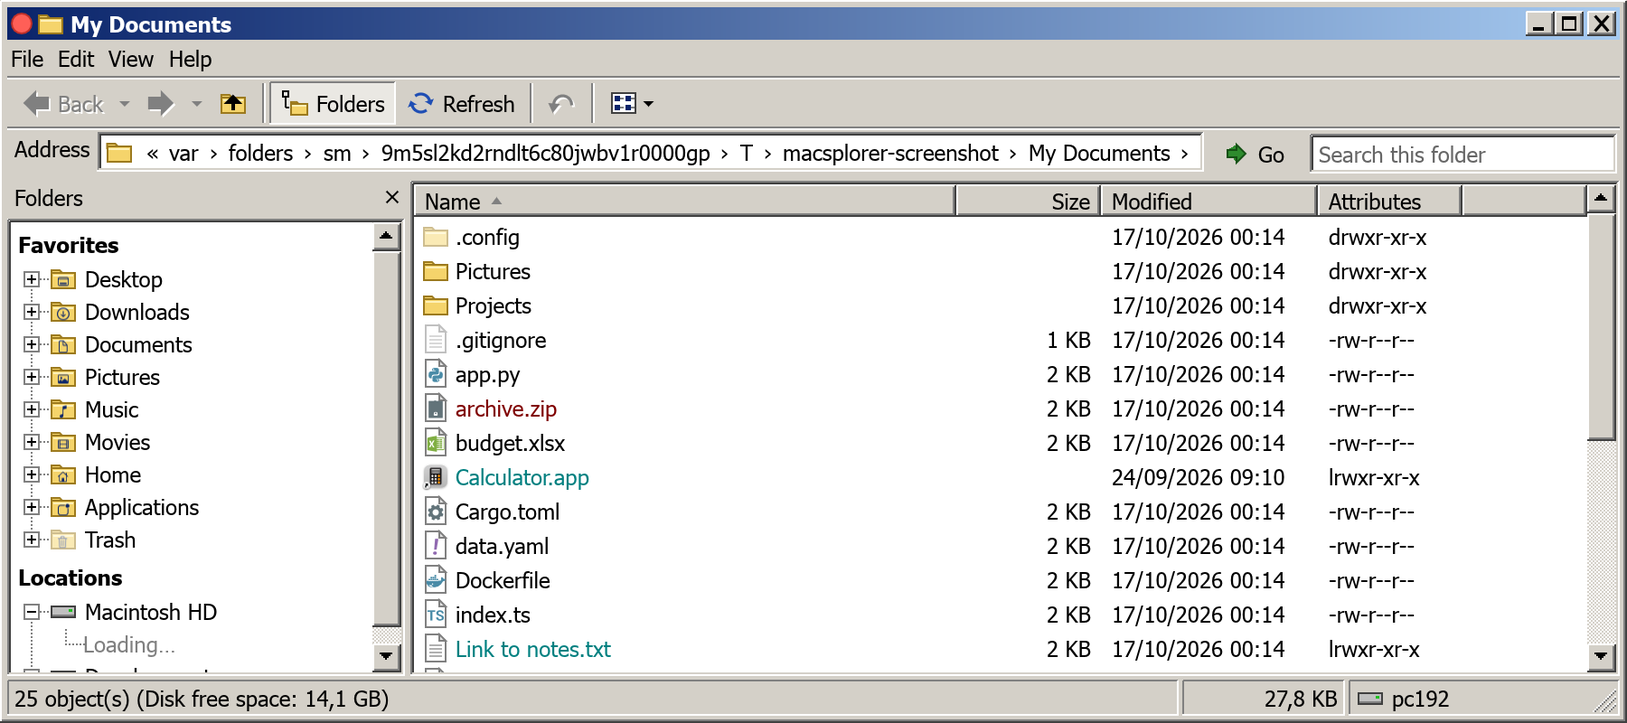
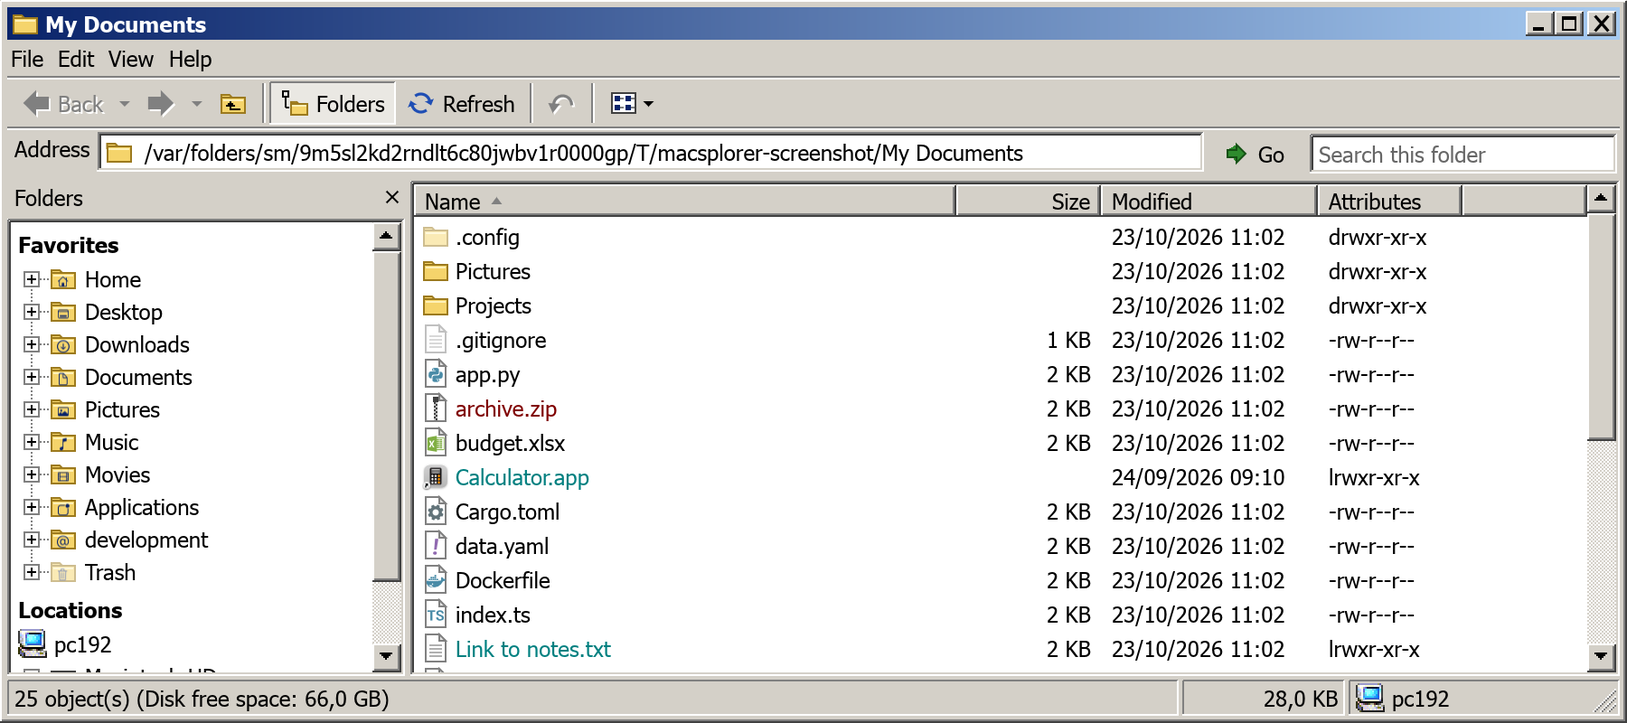
Mark zip and tar files with a zipper, and add View > Click to rename
Archives Macsplorer opens as folders now look different from the ones
that open in another app: a page with a zipper in List and Details, the
folder with a zipper in Large Icons. Inside an archive the address bar
shows the zipper folder and the archive's name in its red.

View > Click to rename turns off the click-the-selected-name rename; the
choice is kept in settings.json.

diff --git a/crates/macsplorer/src/app.rs b/crates/macsplorer/src/app.rs
@@ -163,6 +163,9 @@ struct Settings {
     /// Executables, links and archives get colored names
     /// ([`macsplorer_core::highlight`]).
     color_names: bool,
+    /// Clicking the selected item's name, then waiting, renames it
+    /// ([`slow_click`]); remembered in `settings.json`.
+    click_rename: bool,
 }
 
 struct RenameState {
@@ -537,7 +540,7 @@ impl Explorer {
             git_request: 0,
             git_applied: 0,
             sort: SortSpec::default(),
-            settings: Settings { view: ViewMode::Details, show_extensions: true, show_hidden: false, natural_sort: true, mix_folders: false, expand_to_open: true, show_folders: true, color_names: true },
+            settings: Settings { view: ViewMode::Details, show_extensions: true, show_hidden: false, natural_sort: true, mix_folders: false, expand_to_open: true, show_folders: true, color_names: true, click_rename: true },
             selection: BTreeSet::new(),
             anchor: None,
             focus_item: None,
@@ -1931,6 +1934,7 @@ impl Explorer {
         }
         self.saved_window = prefs.window;
         self.extract_show = prefs.extract_show;
+        self.settings.click_rename = prefs.click_rename;
         self.persist = true;
         // What earlier runs extracted to open, once it is a day old.
         thread::spawn(archive::clean_staging);
@@ -2011,7 +2015,11 @@ impl Explorer {
                         view_focused: self.focus == Pane::List,
                         modifiers: toggle || extend,
                     };
-                    self.slow_click.click(path, click, now_ms(&self.ctx));
+                    if self.settings.click_rename {
+                        self.slow_click.click(path, click, now_ms(&self.ctx));
+                    } else {
+                        self.slow_click.cancel();
+                    }
                     self.focus = Pane::List;
                     self.click(index, toggle, extend, visible);
                 }
@@ -2616,6 +2624,13 @@ impl Explorer {
                     self.sort.folders_first = !self.settings.mix_folders;
                     self.resort();
                 }
+                if egui_classic_menu::checkbox(ui, &mut self.settings.click_rename, "Click to rename").changed() {
+                    self.slow_click.cancel();
+                    if self.persist {
+                        let on = self.settings.click_rename;
+                        Preferences::update(|p| p.click_rename = on);
+                    }
+                }
                 if changed {
                     self.rename = None;
                     self.reload();
@@ -2866,7 +2881,9 @@ impl Explorer {
 
     fn address_contents(&mut self, ui: &mut Ui, actions: &mut Vec<Action>) {
         let (icon, _) = ui.allocate_exact_size(egui::vec2(16.0, 16.0), Sense::hover());
-        theme::paint_icon(ui.painter(), icon, Icon::Folder, true);
+        // Anywhere inside an archive, the folder with the zipper.
+        let zipped = archive::split(self.current()).is_some();
+        theme::paint_icon(ui.painter(), icon, if zipped { Icon::CompressedFolder } else { Icon::Folder }, true);
         if self.address_edit.is_some() {
             self.edit_address(ui, actions);
             return;
@@ -2884,14 +2901,41 @@ impl Explorer {
         // (see `address_bar`). When it is too long the front is cut off and the
         // end, the open folder, stays.
         let shown = self.address_text();
+        let chars: Vec<char> = shown.chars().collect();
+        // Inside an archive the archive's name is in its list color, so the
+        // odd step in the path stands out (not from Explorer).
+        let archive = archive::split(self.current()).filter(|_| self.settings.color_names).map(|(file, _)| {
+            let end = self.shown(&file).chars().count();
+            let len = file.file_name().map_or(0, |n| n.to_string_lossy().chars().count());
+            end - len..end
+        }).filter(|r| r.end <= chars.len());
         let font = egui::TextStyle::Body.resolve(ui.style());
         let width = ui.available_width();
-        let fit = |text: &str| ui.painter().layout_no_wrap(text.to_owned(), font.clone(), theme::color::text());
-        let mut galley = fit(&shown);
+        // The path from char `cut` on, after "…" when the front is cut off.
+        let fit = |cut: usize| {
+            let mut job = egui::text::LayoutJob::default();
+            if cut > 0 {
+                job.append("…", 0.0, egui::TextFormat::simple(font.clone(), theme::color::text()));
+            }
+            let mut add = |range: std::ops::Range<usize>, color| {
+                let text: String = chars[range].iter().collect();
+                job.append(&text, 0.0, egui::TextFormat::simple(font.clone(), color));
+            };
+            match archive.clone().filter(|r| r.end > cut) {
+                Some(r) => {
+                    let start = r.start.max(cut);
+                    add(cut..start, theme::color::text());
+                    add(start..r.end, theme::color::archive());
+                    add(r.end..chars.len(), theme::color::text());
+                }
+                None => add(cut..chars.len(), theme::color::text()),
+            }
+            ui.painter().layout_job(job)
+        };
+        let mut galley = fit(0);
         if galley.size().x > width {
-            let chars: Vec<char> = shown.chars().collect();
-            let cut = (1..chars.len()).find(|&i| fit(&format!("…{}", chars[i..].iter().collect::<String>())).size().x <= width).unwrap_or(chars.len() - 1);
-            galley = fit(&format!("…{}", chars[cut..].iter().collect::<String>()));
+            let cut = (1..chars.len()).find(|&i| fit(i).size().x <= width).unwrap_or(chars.len() - 1);
+            galley = fit(cut);
         }
         let (rect, resp) = ui.allocate_exact_size(egui::vec2(width, ui.available_height().max(16.0)), Sense::hover());
         ui.painter().with_clip_rect(rect).galley(egui::pos2(rect.left() + 2.0, rect.center().y - galley.size().y / 2.0), galley, theme::color::text());

diff --git a/crates/macsplorer/src/theme.rs b/crates/macsplorer/src/theme.rs
@@ -129,6 +129,8 @@ pub mod color {
     pub const FOLDER: Color32 = Color32::from_rgb(0xF5, 0xD4, 0x6B);
     pub const FOLDER_DARK: Color32 = Color32::from_rgb(0x9C, 0x7A, 0x1E);
     pub const FOLDER_LIGHT: Color32 = Color32::from_rgb(0xFF, 0xF1, 0xB8);
+    pub const ZIPPER_DARK: Color32 = Color32::from_rgb(0x40, 0x40, 0x40);
+    pub const ZIPPER_LIGHT: Color32 = Color32::from_rgb(0xC0, 0xC0, 0xC0);
     pub const ARROW: Color32 = Color32::from_rgb(0x2E, 0x8B, 0x2E);
     pub const ARROW_DARK: Color32 = Color32::from_rgb(0x14, 0x50, 0x14);
     /// The sheet of a document icon and its outline stay a white page.
@@ -844,6 +846,13 @@ pub enum Icon {
     Go,
     Folder,
     FolderOpen,
+    /// A zip or tar file Macsplorer opens as a folder: the folder with a
+    /// zipper down its front, as XP drew its Compressed (zipped) Folders, so
+    /// it stands apart from archives that open in another app.
+    CompressedFolder,
+    /// The same on the paper page, for the small icons of the List and
+    /// Details views (not from Windows).
+    CompressedFile,
     App,
     Drive,
     /// A USB stick, external disk or disk image: the drive with its slot,
@@ -940,6 +949,14 @@ pub fn paint_icon(p: &Painter, r: Rect, icon: Icon, enabled: bool) {
             }
         }
         Icon::Folder | Icon::FolderOpen => folder(p, r, enabled),
+        Icon::CompressedFolder => {
+            folder(p, r, enabled);
+            zipper(p, r, enabled, 6.0, 13.0);
+        }
+        Icon::CompressedFile => {
+            paint_page(p, r, false);
+            zipper(p, r, enabled, 2.0, 15.0);
+        }
         Icon::App => {
             p.rect_filled(Rect::from_min_max(at(1.0, 2.0), at(15.0, 14.0)), 0.0, PAPER);
             p.rect_filled(Rect::from_min_max(at(1.0, 2.0), at(15.0, 5.0)), 0.0, active_caption());
@@ -1129,6 +1146,29 @@ fn undo_arrow(p: &Painter, r: Rect, shift: Vec2, color: Color32) {
         .collect();
     p.add(PathShape::line(arc, PathStroke::new(1.6 * s, color)));
     p.add(egui::Shape::convex_polygon(vec![at(0.5, 8.0), at(7.0, 8.5), at(3.0, 13.5)], color, Stroke::NONE));
+}
+
+/// The zipper on [`Icon::CompressedFolder`] and [`Icon::CompressedFile`]:
+/// a silver pull with a hole from row `top`, then teeth alternating dark and
+/// light down to row `bottom`, inside the folder's body or the page.
+fn zipper(p: &Painter, r: Rect, enabled: bool, top: f32, bottom: f32) {
+    let s = r.width() / 16.0;
+    let at = |x: f32, y: f32| pos2(r.left() + x * s, r.top() + y * s);
+    let (dark, light) = if enabled { (ZIPPER_DARK, ZIPPER_LIGHT) } else { (shadow(), highlight()) };
+    let px = |x: f32, y: f32, c: Color32| p.rect_filled(Rect::from_min_max(at(x, y), at(x + 1.0, y + 1.0)), 0.0, c);
+    let mut y = top + 3.0;
+    let mut even = true;
+    while y < bottom {
+        let (left, right) = if even { (dark, light) } else { (light, dark) };
+        px(7.0, y, left);
+        px(8.0, y, right);
+        even = !even;
+        y += 1.0;
+    }
+    let pull = Rect::from_min_max(at(6.5, top), at(9.5, top + 3.0));
+    p.rect_filled(pull, 0.0, light);
+    p.rect_stroke(pull, 0.0, Stroke::new(1.0, dark), egui::StrokeKind::Inside);
+    px(7.5, top + 1.0, dark);
 }
 
 fn folder(p: &Painter, r: Rect, enabled: bool) {

diff --git a/crates/macsplorer/src/icons.rs b/crates/macsplorer/src/icons.rs
@@ -4,6 +4,8 @@
 //!   use the icon macOS shows, rendered once and cached as a texture;
 //! - folders use the Windows 2000 yellow folder; the ones Finder gives a
 //!   sidebar glyph (Music, Pictures, ...) carry that SF Symbol as an emblem;
+//! - zip and tar files, which open as folders, have a zipper: on the folder
+//!   when large, on the page in the List and Details views;
 //! - files are the Windows 2000 dog-eared page; recognized types carry
 //!   VSCodium's Seti glyph as a colored emblem, the way Windows 2000 put
 //!   an application's emblem on its documents;
@@ -19,6 +21,7 @@ use std::sync::Arc;
 use eframe::egui::{self, Align2, Color32, ColorImage, FontId, Rect, Shape, TextureHandle, TextureOptions, Ui};
 use egui::epaint::ColorMode;
 use egui::layers::ShapeIdx;
+use macsplorer_core::archive;
 use macsplorer_core::folder_style::Emblem;
 use macsplorer_core::listing::{Entry, is_hidden_name};
 use macsplorer_core::places::known_folder;
@@ -181,19 +184,23 @@ impl FileIcons {
             return;
         }
         // An app in an archive isn't on disk for macOS to draw.
-        let wants_native = (entry.kind == RenameKind::Package && !macsplorer_core::archive::is_inside(&entry.path)) || entry.custom_icon;
+        let wants_native = (entry.kind == RenameKind::Package && !archive::is_inside(&entry.path)) || entry.custom_icon;
         if wants_native && self.paint_native(ui, rect, entry, state) {
             return;
         }
-        blended(ui, state, || self.paint_vector(ui, rect, entry));
+        blended(ui, state, || self.paint_vector(ui, rect, entry, large));
     }
 
-    fn paint_vector(&mut self, ui: &Ui, rect: Rect, entry: &Entry) {
+    fn paint_vector(&mut self, ui: &Ui, rect: Rect, entry: &Entry, large: bool) {
         match entry.kind {
             RenameKind::Folder => self.paint_folder(ui, rect, &entry.path, None, None),
             RenameKind::Package => {
                 let icon = if entry.extension() == Some("app") { Icon::App } else { Icon::Folder };
                 theme::paint_icon(ui.painter(), rect, icon, true);
+            }
+            // An archive inside an archive is just a file there (`archive::split`).
+            RenameKind::File if archive::format_of(&entry.name).is_some_and(archive::Format::browsable) && !archive::is_inside(&entry.path) => {
+                theme::paint_icon(ui.painter(), rect, if large { Icon::CompressedFolder } else { Icon::CompressedFile }, true);
             }
             RenameKind::File => match self.seti.as_ref().and_then(|s| s.specific_icon_for(&entry.name, true)) {
                 Some(g) => {

diff --git a/crates/macsplorer-core/src/preferences.rs b/crates/macsplorer-core/src/preferences.rs
@@ -91,11 +91,14 @@ pub struct Preferences {
     /// Extract All's "Show extracted files when complete", on until turned
     /// off (Windows keeps it as `ExtractionWizard\ShowFiles`).
     pub extract_show: bool,
+    /// Clicking the name of the only selected item, then waiting, renames
+    /// it (View > Click to rename); on until turned off.
+    pub click_rename: bool,
 }
 
 impl Default for Preferences {
     fn default() -> Self {
-        Self { dark: false, columns: None, zoom: text_size::NORMAL, terminal: None, update_url: DEFAULT_UPDATE_URL.to_owned(), git: None, view: ViewMode::default(), sort: None, window: None, associations: Associations::default(), custom_colors: [None; 16], extract_show: true }
+        Self { dark: false, columns: None, zoom: text_size::NORMAL, terminal: None, update_url: DEFAULT_UPDATE_URL.to_owned(), git: None, view: ViewMode::default(), sort: None, window: None, associations: Associations::default(), custom_colors: [None; 16], extract_show: true, click_rename: true }
     }
 }
 
@@ -180,6 +183,7 @@ impl Preferences {
             map.insert("custom_colors".into(), Value::Array(boxes));
         }
         map.insert("extract_show".into(), Value::Bool(self.extract_show));
+        map.insert("click_rename".into(), Value::Bool(self.click_rename));
         let text = serde_json::to_string_pretty(&map).map_err(io::Error::other)?;
         // Replace the file in one step, so another window reading it never
         // sees half of it.
@@ -204,6 +208,7 @@ impl Preferences {
             associations: map.get("associations").map(Associations::from_json).unwrap_or_default(),
             custom_colors: read_custom_colors(map.get("custom_colors")),
             extract_show: map.get("extract_show").and_then(Value::as_bool).unwrap_or(true),
+            click_rename: map.get("click_rename").and_then(Value::as_bool).unwrap_or(true),
         }
     }
 }
@@ -262,6 +267,15 @@ mod tests {
         assert!(Preferences::load_from(&dir).dark);
         Preferences { dark: false, ..Default::default() }.save_to(&dir).unwrap();
         assert!(!Preferences::load_from(&dir).dark);
+        fs::remove_dir_all(&dir).unwrap();
+    }
+
+    #[test]
+    fn click_rename_is_on_until_turned_off() {
+        let dir = temp("click-rename");
+        assert!(Preferences::load_from(&dir).click_rename);
+        Preferences { click_rename: false, ..Default::default() }.save_to(&dir).unwrap();
+        assert!(!Preferences::load_from(&dir).click_rename);
         fs::remove_dir_all(&dir).unwrap();
     }
 

diff --git a/CLAUDE.md b/CLAUDE.md
@@ -9,7 +9,7 @@ never paste decompiled code into the source.
 
 | Path | What |
 |---|---|
-| `crates/macsplorer-core` | UI-independent logic, all unit-tested: `archive` (zip and tar archives browsed as read-only folders, after `zipfldr.dll`: a place inside one is a path through the archive file, `foo.zip/src`, which `split` takes apart; the index is cached by path, size and mtime; `list` makes `Entry`s, `extract` takes items out with progress, cancel, password and the quarantine mark, never outside the destination; `default_destination` for Extract All; findings in `docs/archive-findings.md`; pure-Rust crates only, so the Linux cross-check needs no C toolchain), `listing` (read_dir, sort, sizes, custom-icon flag), `natural` (StrCmpLogicalW-style sort in the user locale's collation, ICU4X; `fold` for type-ahead and search matching), `rename` (Explorer's rename selection + APFS name rules), `slow_click` (click-the-selected-label rename, after the comctl32 ListView; `DELAY_MS` sets the delay), `fileops` (paste: copy/move with "- Copy" names, xattr-preserving; `transfer` asks about name conflicts, merges folders, replaced items go to the Trash; after `CCopyWorkItem::ConfirmOverwrite`; `transfer_with` reports a `Progress` and can be cancelled), `copy_progress` (when the progress dialog shows and closes, after shell32's `CProgressDialog`, and its time-left text), `dragdrop` (what a drop does: copy, move or shortcut by volume and keys, after shell32's `CFSDropTarget`; the drag threshold), `goto` (Go To Folder: fuzzy ranking of the folders worth jumping to, by a few letters of the name; not from Explorer), `autosuggest` (Fish-style prediction of the folder typed in the address bar: the gray rest of the name, and the address once accepted; not from Explorer), `watch` (live updates: watches the open folder and the expanded tree folders through `notify`, and says which to reload after a short pause), `history` (back/forward), `home` (the home folder as `~`: how a path is shown in the address bar being edited, Go To Folder and the status bar, and how a typed `~` and `~/…` are read; `~name` is left as typed; also knows the home folder's real path and the macOS `/System/Volumes/Data` firmlink spelling; not from Explorer), `focus` (Tab/F6 cycle between view, address bar, search and Folders pane, after `CShellBrowser::_CycleFocus`), `isearch` (type-ahead selection, after the comctl32 ListView), `places` (sidebar favorites, including symlinked folders in the home folder; the drive kind of each volume, fixed, removable, optical or network, which picks its Folders pane icon, after Win2000's `GetDriveType`, macOS asks Foundation for local/internal/removable), `tree` (Folders pane model, CNscTree-like), `layout` (Large Icons and List geometry and arrow keys, after the comctl32 ListView), `marquee` (rubber band selection, same source), `menu_delay` (how long the pointer rests on a submenu item before it opens, Windows' `MenuShowDelay`, 400 ms; from memory), `columns` (Details columns: which are shown and in what order, the header menu, after shell32's `CDefView`; header divider hit test and resize drag, after SysHeader32), `seti` (VSCodium file icon resolution), `undo` (undo stack for rename/move/copy/delete), `text_size` (View > Text Size steps for the whole-window zoom, after the Win2000 Font Size / DPI setting), `git` (branch name read from `.git/HEAD` and friends, status summary from `git status --porcelain --branch`, after posh-git; the branch label and the summary text live here, so they are tested; `executable()` waits for the one-time lookup, so call it from workers only, the UI thread uses `available()`; `remember()` hands it the path stored in `settings.json` before anything asks), `highlight` (colored names for executables, links and archives, after Ubuntu's `ls` colors; not from Explorer), `fonts` (Linux: which installed font beats the bundled DejaVu Sans Condensed, and which cover other scripts; the lookup itself is `system_fonts.rs` through `fontdb`, which reads the fontconfig folders), `properties` (Properties dialog data: folder size walk, size/date wording), `folder_style` (Finder's folder color and emoji/SF Symbol emblem, read and written as Finder stores them, for the Properties dialog's Customize tab, plus Macsplorer's own colors mapped to the nearest Finder tag color; Linux keeps colors only, in `user.macsplorer.folder-color`; `bplist` is the binary plist reader/writer it shares with `listing`), `hls` (the Color dialog's Hue/Sat/Lum, after Microsoft's KB 29240 sample), `xattr` (extended attributes on macOS and Linux: read, set, remove), `associations` (the app chosen with "Always use this program", by file type: a UTI on macOS), `preferences` (the `settings.json` that survives between runs: dark mode, the text size, the column layout, the view mode, the sort, the window size, which `columns` converts to and from JSON, the chosen apps (`associations`), and the git location the app found last time; read-modify-write so several windows can share it, unknown keys kept; add new persisted settings there). |
+| `crates/macsplorer-core` | UI-independent logic, all unit-tested: `archive` (zip and tar archives browsed as read-only folders, after `zipfldr.dll`: a place inside one is a path through the archive file, `foo.zip/src`, which `split` takes apart; the index is cached by path, size and mtime; `list` makes `Entry`s, `extract` takes items out with progress, cancel, password and the quarantine mark, never outside the destination; `default_destination` for Extract All; findings in `docs/archive-findings.md`; pure-Rust crates only, so the Linux cross-check needs no C toolchain), `listing` (read_dir, sort, sizes, custom-icon flag), `natural` (StrCmpLogicalW-style sort in the user locale's collation, ICU4X; `fold` for type-ahead and search matching), `rename` (Explorer's rename selection + APFS name rules), `slow_click` (click-the-selected-label rename, after the comctl32 ListView; `DELAY_MS` sets the delay), `fileops` (paste: copy/move with "- Copy" names, xattr-preserving; `transfer` asks about name conflicts, merges folders, replaced items go to the Trash; after `CCopyWorkItem::ConfirmOverwrite`; `transfer_with` reports a `Progress` and can be cancelled), `copy_progress` (when the progress dialog shows and closes, after shell32's `CProgressDialog`, and its time-left text), `dragdrop` (what a drop does: copy, move or shortcut by volume and keys, after shell32's `CFSDropTarget`; the drag threshold), `goto` (Go To Folder: fuzzy ranking of the folders worth jumping to, by a few letters of the name; not from Explorer), `autosuggest` (Fish-style prediction of the folder typed in the address bar: the gray rest of the name, and the address once accepted; not from Explorer), `watch` (live updates: watches the open folder and the expanded tree folders through `notify`, and says which to reload after a short pause), `history` (back/forward), `home` (the home folder as `~`: how a path is shown in the address bar being edited, Go To Folder and the status bar, and how a typed `~` and `~/…` are read; `~name` is left as typed; also knows the home folder's real path and the macOS `/System/Volumes/Data` firmlink spelling; not from Explorer), `focus` (Tab/F6 cycle between view, address bar, search and Folders pane, after `CShellBrowser::_CycleFocus`), `isearch` (type-ahead selection, after the comctl32 ListView), `places` (sidebar favorites, including symlinked folders in the home folder; the drive kind of each volume, fixed, removable, optical or network, which picks its Folders pane icon, after Win2000's `GetDriveType`, macOS asks Foundation for local/internal/removable), `tree` (Folders pane model, CNscTree-like), `layout` (Large Icons and List geometry and arrow keys, after the comctl32 ListView), `marquee` (rubber band selection, same source), `menu_delay` (how long the pointer rests on a submenu item before it opens, Windows' `MenuShowDelay`, 400 ms; from memory), `columns` (Details columns: which are shown and in what order, the header menu, after shell32's `CDefView`; header divider hit test and resize drag, after SysHeader32), `seti` (VSCodium file icon resolution), `undo` (undo stack for rename/move/copy/delete), `text_size` (View > Text Size steps for the whole-window zoom, after the Win2000 Font Size / DPI setting), `git` (branch name read from `.git/HEAD` and friends, status summary from `git status --porcelain --branch`, after posh-git; the branch label and the summary text live here, so they are tested; `executable()` waits for the one-time lookup, so call it from workers only, the UI thread uses `available()`; `remember()` hands it the path stored in `settings.json` before anything asks), `highlight` (colored names for executables, links and archives, after Ubuntu's `ls` colors; not from Explorer), `fonts` (Linux: which installed font beats the bundled DejaVu Sans Condensed, and which cover other scripts; the lookup itself is `system_fonts.rs` through `fontdb`, which reads the fontconfig folders), `properties` (Properties dialog data: folder size walk, size/date wording), `folder_style` (Finder's folder color and emoji/SF Symbol emblem, read and written as Finder stores them, for the Properties dialog's Customize tab, plus Macsplorer's own colors mapped to the nearest Finder tag color; Linux keeps colors only, in `user.macsplorer.folder-color`; `bplist` is the binary plist reader/writer it shares with `listing`), `hls` (the Color dialog's Hue/Sat/Lum, after Microsoft's KB 29240 sample), `xattr` (extended attributes on macOS and Linux: read, set, remove), `associations` (the app chosen with "Always use this program", by file type: a UTI on macOS), `preferences` (the `settings.json` that survives between runs: dark mode, the text size, the column layout, the view mode, the sort, the window size, which `columns` converts to and from JSON, the chosen apps (`associations`), Extract All's "Show extracted files", View > Click to rename (`click_rename`), and the git location the app found last time; read-modify-write so several windows can share it, unknown keys kept; add new persisted settings there). |
 | `crates/macsplorer` | egui/eframe 0.36 app. `app.rs` state + UI, `platform.rs` per-OS open/reveal/eject, wording and font paths, `theme.rs` Windows Classic colors/bevels/fonts/icons/title bar, `scrollbar.rs` classic scroll bars drawn over hidden egui ones, `pasteboard.rs` Cut/Copy files on the macOS pasteboard, `properties.rs` the Properties dialog (own borderless window), `column_dialog.rs` the header menu's More... dialog (Column Settings), `color_dialog.rs` the Win2000 Color dialog (Other... on the Customize tab), `open_with_dialog.rs` the Open With dialog (Choose Program..., with Always use this program), `goto_dialog.rs` the Go To Folder window (Shift+Cmd+G), `shortcuts_dialog.rs` the `?`/F1 shortcut list (repeats the manual's chapter 13), `conflict_dialog.rs` Confirm File/Folder Replace (the paste worker waits on its answer), `extract_dialog.rs` Extract All, `password_dialog.rs` Password Needed for encrypted zips (archive jobs run through `Explorer::run_archive_job`: extract, then open, copy or move into place with `transfer_with`; `archive_open` is set while the open folder is in an archive, and every write is refused there with `READ_ONLY`), `progress_dialog.rs` the Copying.../Moving... window with Cancel, `item_drag.rs` item drags inside the window (drop zones the views register while drawing, drag image, target highlight), `native_drag.rs` drags to and from other apps through AppKit (drop methods added to winit's view, a drag that leaves the window becomes an AppKit session), `icons.rs` icon choice + native icon cache, `native_icon.rs` NSWorkspace icons via objc2, `system_fonts.rs` (Linux) finds an installed Tahoma and script fallbacks; Linux builds embed DejaVu Sans Condensed from `assets/fonts` (never in the macOS binary). |
 | `crates/egui-classic-menu` | Standalone egui 0.36 crate for the Windows Classic menu rows: check/radio gutter on the left, submenu arrow gutter on the right, shortcuts left of it, whole-row highlight (`style`, `item`, `checkbox`, `radio`, `submenu_row`, `dot`). Colors come from the `Ui`'s `Visuals`, so it has no dependency on `theme.rs`; `theme::menu_style` and `theme::dot` re-export it. Reusable in other projects, see its README. |
 | `crates/update-check` | Standalone crate, no UI and no macsplorer dependency: asks a web address (given by the caller, kept in the program's settings) whether a newer release exists. Reads GitHub's "latest release" JSON or a plain `{"version","url"}` file; fetches with `curl`, so no TLS stack (and the Linux cross-check needs no C toolchain). Blocks up to 15 s: call from a worker. `Version` compares tags (`v1.10.0`, `-rc.1`). Reusable, see its README. The About box's "Check for Updates" button uses it with `preferences::update_url` (default `DEFAULT_UPDATE_URL`, written to `settings.json` on every save so it can be edited); nothing is ever checked without a click. |

diff --git a/docs/manual/README.md b/docs/manual/README.md
@@ -163,6 +163,7 @@ Small icons with names, arranged in columns that run from top to bottom. When th
 ### What the icons tell you
 
 - **Yellow folders** are folders. The ones in your Favorites carry a small symbol, the same one Finder uses for them.
+- **A zipper** marks zip and tar archives: on a folder in Large Icons, on a paper page in the List and Details views. They open in Macsplorer as a folder (see [Archives](#archives-zip-and-tar-files)). While you're inside one, the address bar shows the folder with the zipper.
 - **Paper pages** are files. A colored mark on the page shows the kind of file, for example a spreadsheet, a picture, a PDF or a program's source code. A plain page with gray lines is a file of a kind Macsplorer doesn't know.
 - **Apps**, and anything you have given a custom icon in Finder, show their real icon.
 
@@ -172,7 +173,7 @@ With **View › Special files in color** turned on (it is at first), some names 
 
 - **Green**: programs and scripts that can be run.
 - **Turquoise**: links (aliases) that point to another file or folder.
-- **Red**: archives such as `.zip` files and disk images, and links whose original has gone missing.
+- **Red**: archives such as `.zip` files and disk images, and links whose original has gone missing. Only the ones with a [zipper](#what-the-icons-tell-you) on their icon open in Macsplorer; the others, such as `.rar` or `.dmg`, open in their own app.
 
 ## 5. Selecting files
 
@@ -214,7 +215,7 @@ Right-click an empty spot in the list for **Paste**, **Move Here**, **Refresh**,
 
 ### Archives (zip and tar files)
 
-Like Windows' compressed folders, an archive opens as a folder: double-click a `.zip`, `.tar`, `.tar.gz` (or `.tgz`), `.tar.bz2`, `.tar.xz` or `.tar.zst` file and you see what's inside it, with folders you can go into. The address bar shows the way in, for example `~/Downloads/photos.zip/2026`, and **Up** or **Back** takes you out again. Other kinds of archive (`.7z`, `.rar`, `.cab`) still open in their own app. To open a zip in Archive Utility instead, use **Open With**.
+Like Windows' compressed folders, an archive opens as a folder: double-click a `.zip`, `.tar`, `.tar.gz` (or `.tgz`), `.tar.bz2`, `.tar.xz` or `.tar.zst` file and you see what's inside it, with folders you can go into. The address bar shows the way in, for example `~/Downloads/photos.zip/2026`, with the archive's name in red (when [colored names](#colored-names) are on), and **Up** or **Back** takes you out again. Their icon has a zipper. Other kinds of archive (`.7z`, `.rar`, `.cab`) keep their page icon and still open in their own app. To open a zip in Archive Utility instead, use **Open With**.
 
 <img src="images/archive-folder.png" alt="Inside a zip file" width="900">
 
@@ -238,7 +239,7 @@ Start renaming in any of these ways:
 
 - select the item and press **F2**,
 - right-click it and choose **Rename**,
-- or click the name of an item that's already selected, then wait a moment.
+- or click the name of an item that's already selected, then wait a moment. If you'd rather not have this, turn off **View › Click to rename**.
 
 The name turns into a text box. Only the part before the extension is selected, so you can type a new name straight away without losing the `.txt` or `.pdf` at the end.
 
@@ -398,6 +399,7 @@ All of these are in the **View** menu.
 | **Expand to open folder** | Lets the Folders pane follow you to the folder you're in. |
 | **Natural number sorting** | Sorts numbers in names by their value, so "File 2" comes before "File 10". Turn it off to sort letter by letter. |
 | **Mix folders and files** | Sorts folders in between the files instead of putting them all at the top. |
+| **Click to rename** | Clicking the name of a selected item, then waiting a moment, starts [renaming](#7-renaming) it. Turn it off if that happens when you don't want it; **F2** and **Rename** still work. Macsplorer remembers this choice. |
 | **Refresh** | Reloads the list. |
 
 <img src="images/hidden-items.png" alt="Hidden files shown faded" width="900">

diff --git a/docs/archive-findings.md b/docs/archive-findings.md
@@ -201,7 +201,7 @@ What Macsplorer does (`macsplorer_core::archive`, `app.rs` `run_archive_job`, `e
 | Copy and drag out (`CArchiveItemDataObject`) | Copy extracts to a scratch folder and puts those files on the pasteboard, so Finder can paste them too. A drop on a folder in the window extracts and copies, always a copy. A drag that leaves the window extracts at once, up to 64 MB, and hands AppKit the files. |
 | Index cache keyed by path and time (§2.9) | Cached by path, size and modification time, eight archives at a time. The folder holding the archive is watched, so a changed archive reloads. |
 | CAB: flat list with Path, Extract as default, unsafe names skipped (§3) | The unsafe-name rule applies to every format: absolute paths are made relative, and names with `..` are never listed or extracted. **Not done:** CAB itself. |
-| CAB and zip icons (§3.3) | Archives keep their page icon. A cabinet icon drawn from memory was tried and dropped. |
+| CAB and zip icons (§3.3) | Zip and tar files, which open as folders, have a zipper: the yellow folder with a zipper down its front when large (`theme::Icon::CompressedFolder`, after XP's Compressed (zipped) Folder icon, from memory), the paper page with one in the List and Details views (`Icon::CompressedFile`, not from Windows). The address bar shows the zipper folder anywhere inside an archive, and the archive's name in its red; Win10's zipfldr.dll art wasn't used. Other archives keep their page icon, so the icon says what opens in Macsplorer. A cabinet icon drawn from memory was tried and dropped. |
 | `.app` | Show Package Contents (`file-browser-findings.md` §3). Bundles are real folders and need none of the above. |
 
 ## 5. UI text, from memory

diff --git a/docs/file-browser-findings.md b/docs/file-browser-findings.md
@@ -86,7 +86,7 @@ The trigger is in the ListView, not Explorer. Code path: `CLVMouseManager::Handl
 
 Unverified: whether Windows 2000's comctl32 had exactly these conditions; the binary read here is v6.10 from build 10240.
 
-**macsplorer** (`slow_click`): the same conditions, minus the activate styles (there is no single-click mode). Keyboard focus means the item view was the active pane. A click on any other item, a marquee, a click on empty space, moving focus to the tree, or navigating also drops the pending rename. The delay is `slow_click::DELAY_MS` (500 ms), and egui's double-click interval is set to the same value, as on Windows.
+**macsplorer** (`slow_click`): the same conditions, minus the activate styles (there is no single-click mode). Keyboard focus means the item view was the active pane. A click on any other item, a marquee, a click on empty space, moving focus to the tree, or navigating also drops the pending rename. The delay is `slow_click::DELAY_MS` (500 ms), and egui's double-click interval is set to the same value, as on Windows. View > Click to rename turns it off and is kept in `settings.json`. Not from Windows: Win2000 had no switch for it.
 
 ### 2.2 Name sorting
 
